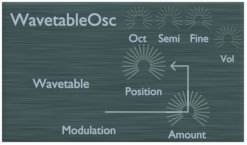
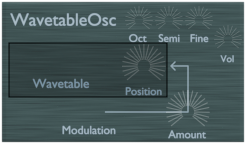
changed WTpanel, removed todo in ADSR.h

Changed region(s): [[0.0283, 0.2759, 0.6802, 0.6897], [0.1134, 0.5241, 0.3684, 0.6069]]

diff --git a/Source/audio/ADSR.cpp b/Source/audio/ADSR.cpp
@@ -20,13 +20,13 @@ float ADSREnvelope::doEnvelope() {
 		m_attack_start_value = 0.f;
 		m_current_value      = 0.;
 		m_current_section    = ADSR_SECTION_ATTACK;
-		// ! no break is intentional
-	case ADSR_SECTION_ATTACK:
-		m_attack_modded = m_attack;
+		// ! intentional fallthrough
+	case ADSR_SECTION_ATTACK: {
+		double attack_modded = m_attack;
 		if (*m_attack_mod) {
-			m_attack_modded *= calcModFactor(*m_attack_mod);
+			attack_modded *= calcModFactor(*m_attack_mod);
 		}
-		m_current_value += 1. / (m_samplerate * m_attack_modded);
+		m_current_value += 1. / (m_samplerate * attack_modded);
 		if (m_current_value >= 1) {
 			m_current_value   = 1;
 			m_current_section = ADSR_SECTION_DECAY;
@@ -34,58 +34,58 @@ float ADSREnvelope::doEnvelope() {
 		m_last_actual_value = m_current_value;
 
 		return m_last_actual_value;
-		break;
+	} break;
 
-	case ADSR_SECTION_DECAY:
-		m_decay_modded = m_decay;
+	case ADSR_SECTION_DECAY: {
+		double decay_modded = m_decay;
 		if (*m_decay_mod) {
-			m_decay_modded *= calcModFactor(*m_decay_mod);
+			decay_modded *= calcModFactor(*m_decay_mod);
 		}
 
 		// just decay to zero but return scaled
-		m_decay_factor = calcDecayFactor(m_decay_modded);
+		m_decay_factor = calcDecayFactor(decay_modded);
 		m_current_value *= m_decay_factor;
-		m_sustain_modded = m_sustain + *m_sustain_mod;
-		m_sustain_modded = m_sustain_modded < 0 ? 0 : m_sustain_modded;
-		m_sustain_modded = m_sustain_modded > 1 ? 1 : m_sustain_modded;
+		double sustain_modded = m_sustain + *m_sustain_mod;
+		sustain_modded = sustain_modded < 0 ? 0 : sustain_modded;
+		sustain_modded = sustain_modded > 1 ? 1 : sustain_modded;
 		if (m_current_value < MIN_DECAY_RELEASE_VAL) {
 			if (m_loop) {
 				m_current_section    = ADSR_SECTION_ATTACK;
-				m_attack_start_value = m_sustain_modded;
-				m_current_value      = m_sustain_modded + (1 - m_sustain_modded) * m_current_value;
+				m_attack_start_value = sustain_modded;
+				m_current_value      = sustain_modded + (1 - sustain_modded) * m_current_value;
 
-				m_last_actual_value = m_sustain_modded;
+				m_last_actual_value = sustain_modded;
 				return m_last_actual_value;
 			} else {
 				m_current_section = ADSR_SECTION_SUSTAIN;
 				m_current_value   = 0; // why?
 			}
 		}
-		m_last_actual_value = m_sustain_modded + (1 - m_sustain_modded) * m_current_value;
+		m_last_actual_value = sustain_modded + (1 - sustain_modded) * m_current_value;
 		return m_last_actual_value;
-		break;
+	} break;
 
-	case ADSR_SECTION_SUSTAIN:
-		m_sustain_modded = m_sustain + *m_sustain_mod;
-		m_sustain_modded = m_sustain_modded < 0 ? 0 : m_sustain_modded;
-		m_sustain_modded = m_sustain_modded > 1 ? 1 : m_sustain_modded;
+	case ADSR_SECTION_SUSTAIN: {
+		double sustain_modded = m_sustain + *m_sustain_mod;
+		sustain_modded        = sustain_modded < 0 ? 0 : sustain_modded;
+		sustain_modded        = sustain_modded > 1 ? 1 : sustain_modded;
 		// just return sustain here
 		if (m_loop) {
 			m_current_section    = ADSR_SECTION_ATTACK;
-			m_attack_start_value = m_sustain_modded;
-			m_current_value      = m_sustain_modded + (1 - m_sustain_modded) * m_current_value;
+			m_attack_start_value = sustain_modded;
+			m_current_value      = sustain_modded + (1 - sustain_modded) * m_current_value;
 		}
-		m_last_actual_value = m_sustain_modded;
+		m_last_actual_value = sustain_modded;
 		return m_last_actual_value;
-		break;
+	} break;
 
-	case ADSR_SECTION_RELEASE:
-		m_release_modded = m_release;
+	case ADSR_SECTION_RELEASE: {
+		double release_modded = m_release;
 		if (*m_release_mod) {
-			m_release_modded *= calcModFactor(*m_release_mod * 2);
+			release_modded *= calcModFactor(*m_release_mod * 2);
 		}
 
-		m_release_factor = calcReleaseFactor(m_release_modded);
+		m_release_factor = calcReleaseFactor(release_modded);
 		// again just decay from 1 to 0 and output scaled version
 		m_current_value *= m_release_factor;
 		if (m_current_value < MIN_DECAY_RELEASE_VAL) {
@@ -96,7 +96,7 @@ float ADSREnvelope::doEnvelope() {
 		}
 		m_last_actual_value = m_current_value * m_release_start_value;
 		return m_last_actual_value;
-		break;
+	} break;
 	default: //should never get here
 		return 0.f;
 		break;
@@ -107,13 +107,13 @@ void ADSREnvelope::startRelease() {
 	if (m_current_section == ADSR_SECTION_RELEASE) {
 		return;
 	}
-	m_sustain_modded = m_sustain + *m_sustain_mod;
-	m_sustain_modded = m_sustain_modded < 0 ? 0 : m_sustain_modded;
-	m_sustain_modded = m_sustain_modded > 1 ? 1 : m_sustain_modded;
+	double sustain_modded = m_sustain + *m_sustain_mod;
+	sustain_modded = sustain_modded < 0 ? 0 : sustain_modded;
+	sustain_modded = sustain_modded > 1 ? 1 : sustain_modded;
 	if (m_current_section == ADSR_SECTION_DECAY) {
-		m_release_start_value = m_current_value * (1. - m_sustain_modded) + m_sustain_modded;
+		m_release_start_value = m_current_value * (1. - sustain_modded) + sustain_modded;
 	} else if (m_current_section == ADSR_SECTION_SUSTAIN) {
-		m_release_start_value = m_sustain_modded;
+		m_release_start_value = sustain_modded;
 	} else {
 		m_release_start_value = m_current_value;
 	}

diff --git a/Source/audio/ADSR.h b/Source/audio/ADSR.h
@@ -142,14 +142,7 @@ protected:
   double m_release_factor = 0.9998;
   double m_release_start_value = 1.;
 
-  //todo these are added because you can't declare vars in case statement???
-  double m_attack_modded = 0.;
-  double m_decay_modded = 0.;
-  double m_sustain_modded = 0.;
-  double m_release_modded = 0.;
-
   double m_current_value = 0.f;
   double m_samplerate;
-
   // bool* m_envelope_finish_flag = nullptr;
 };
